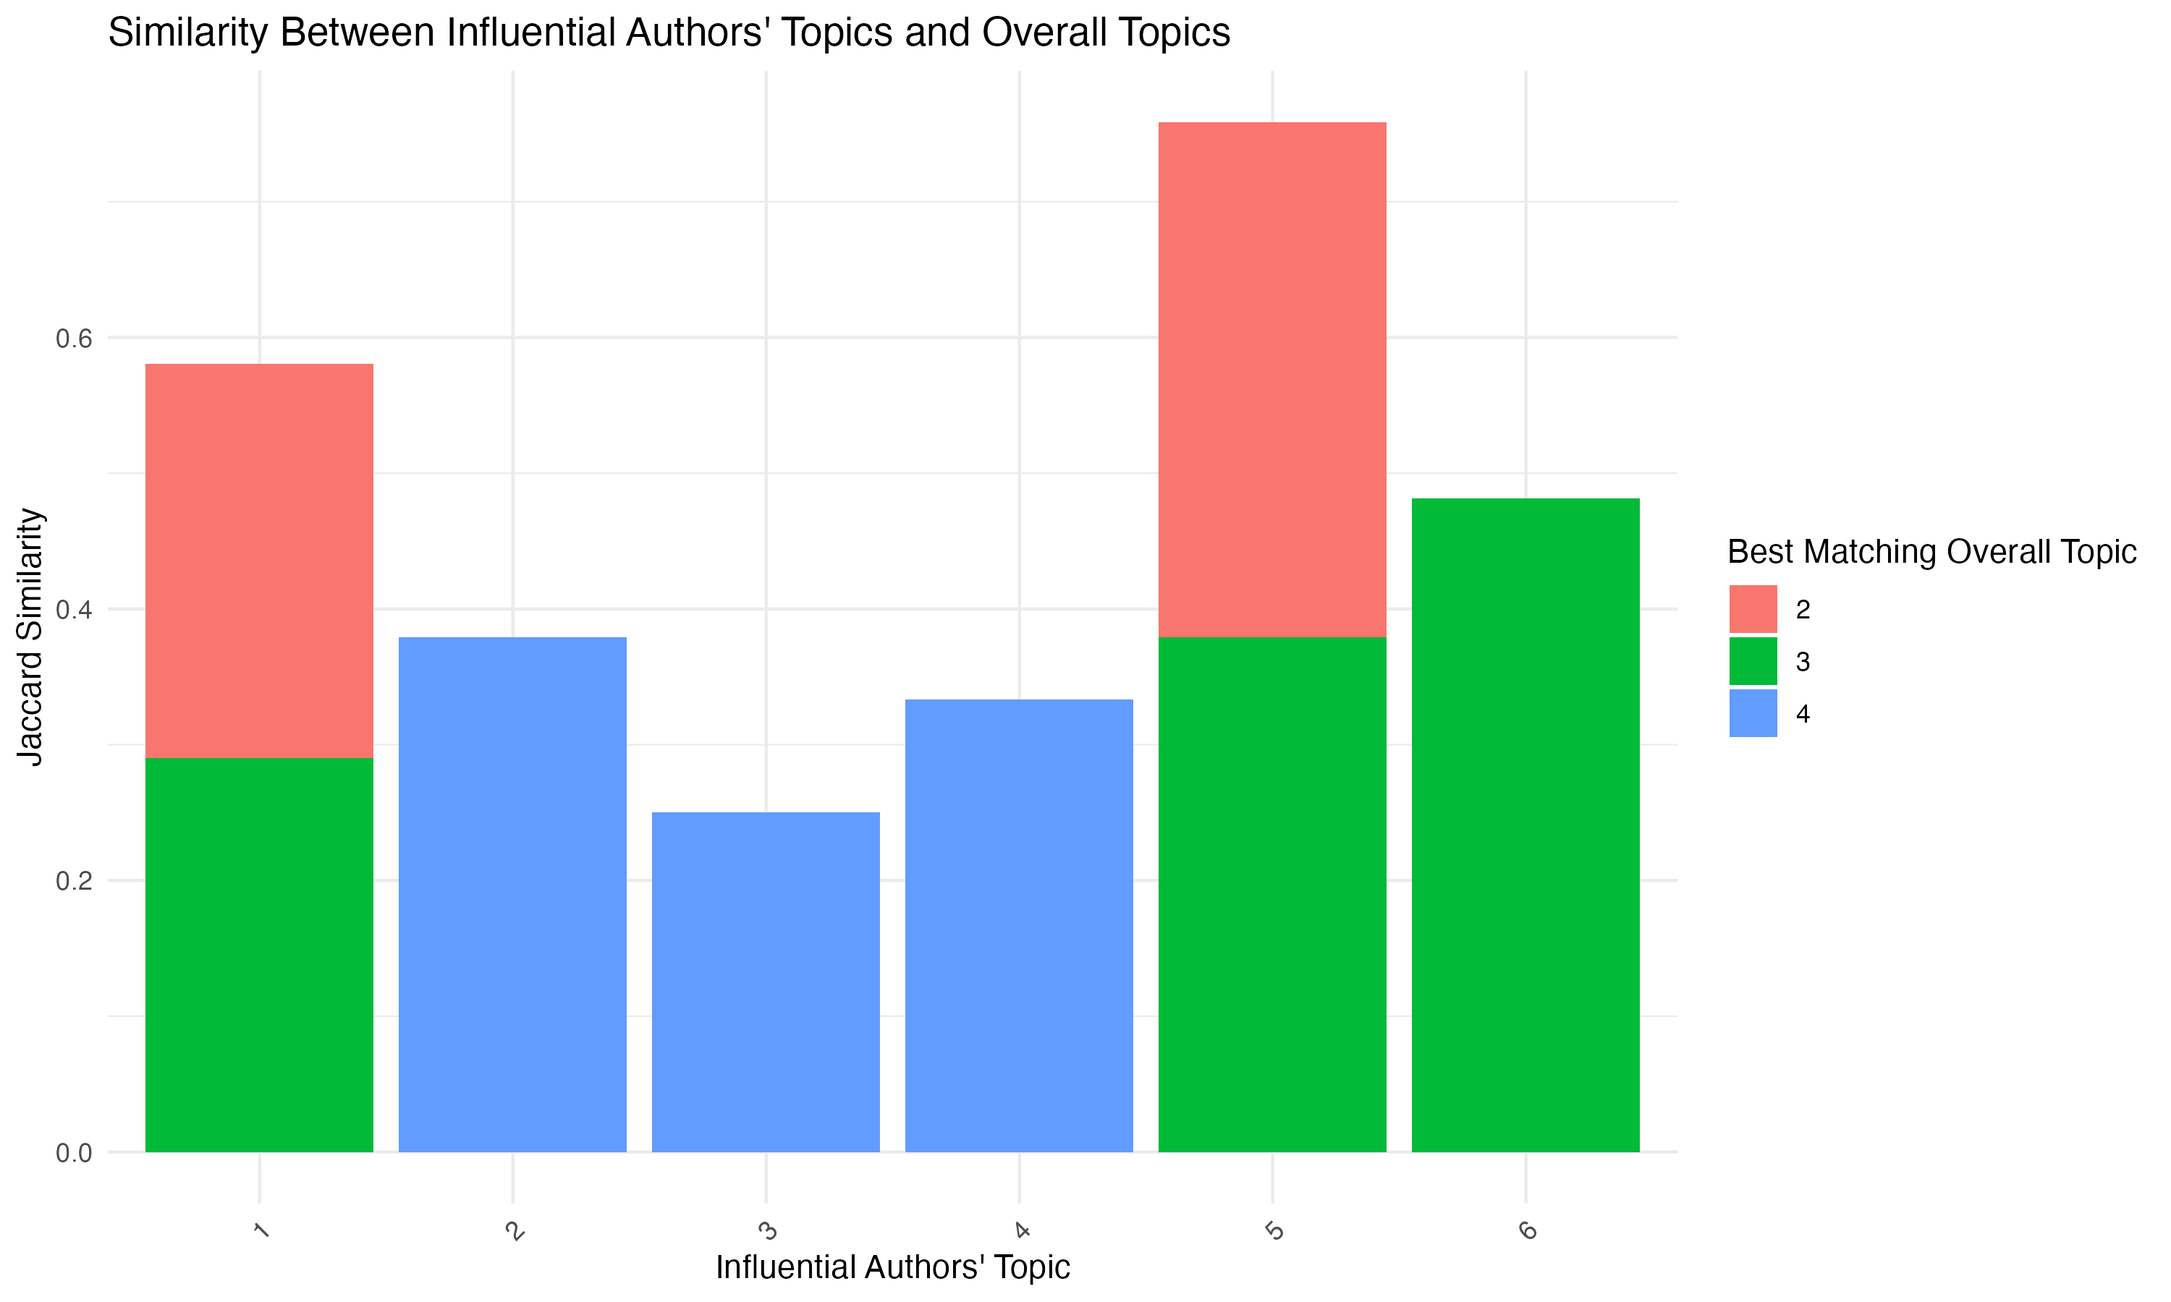
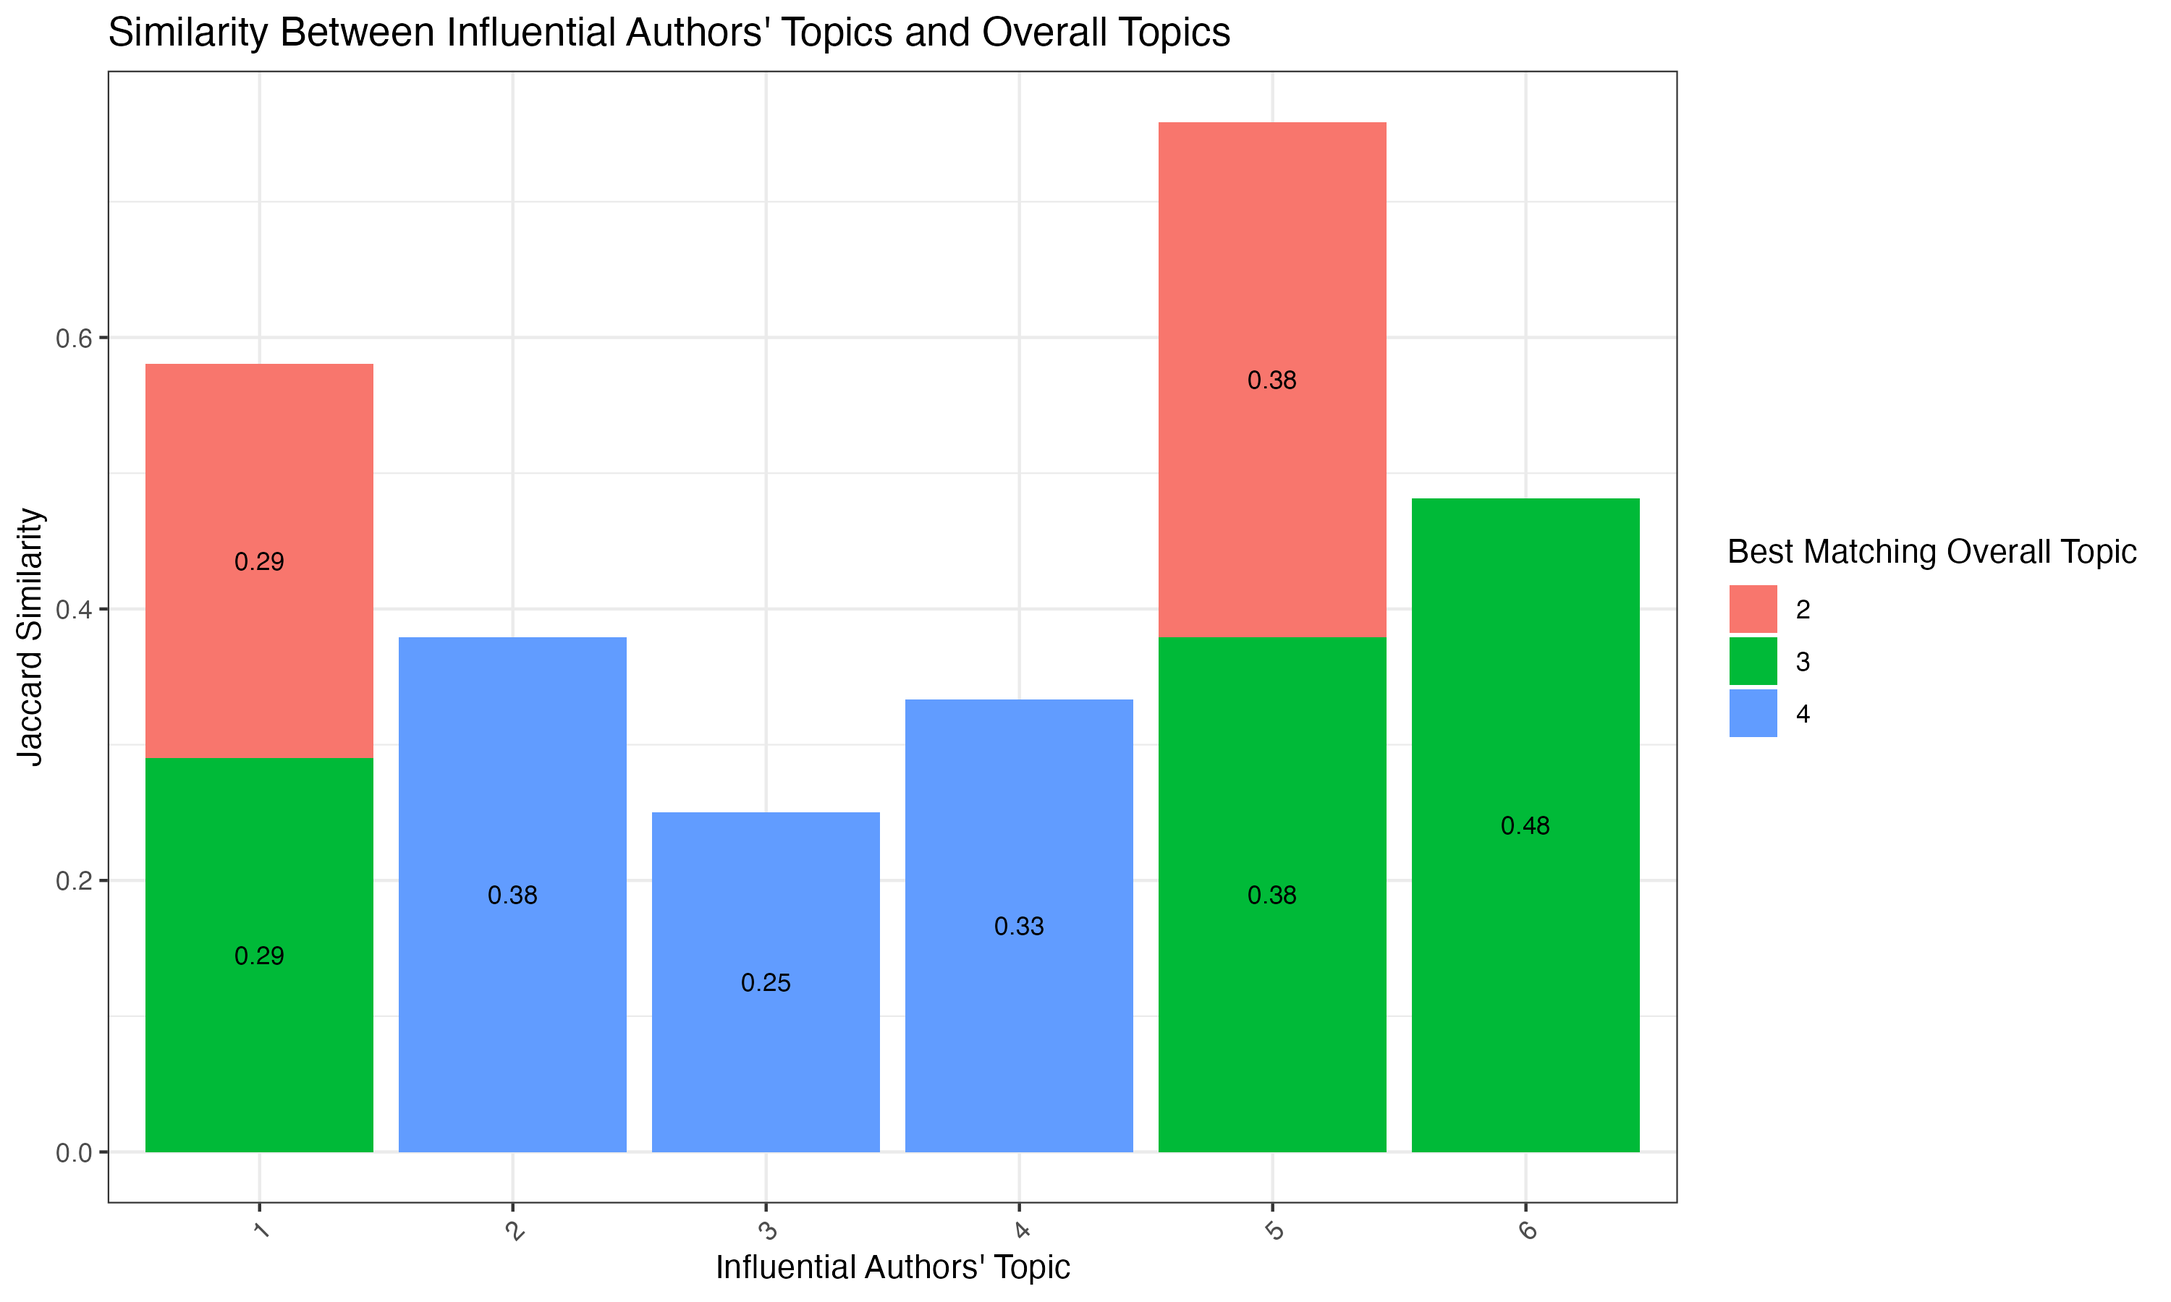
finished preliminary code

Changed region(s): [[0.682, 0.6222, 0.713, 0.6533], [0.341, 0.7467, 0.372, 0.7778]]

diff --git a/images and tables/table_descriptive_statistics_influential_authors.html b/images and tables/table_descriptive_statistics_influential_authors.html
@@ -2,66 +2,155 @@
 <tr>
 <th style="border-top: double; text-align:center; font-style:italic; font-weight:normal; padding:0.2cm; border-bottom:1px solid black; text-align:left; ">Author</th>
 <th style="border-top: double; text-align:center; font-style:italic; font-weight:normal; padding:0.2cm; border-bottom:1px solid black; ">Influence</th>
+<th style="border-top: double; text-align:center; font-style:italic; font-weight:normal; padding:0.2cm; border-bottom:1px solid black; ">Num_Comments</th>
+<th style="border-top: double; text-align:center; font-style:italic; font-weight:normal; padding:0.2cm; border-bottom:1px solid black; ">Num_Threads</th>
+<th style="border-top: double; text-align:center; font-style:italic; font-weight:normal; padding:0.2cm; border-bottom:1px solid black; ">Threads_Started</th>
+<th style="border-top: double; text-align:center; font-style:italic; font-weight:normal; padding:0.2cm; border-bottom:1px solid black; ">Avg_Sentiment</th>
+<th style="border-top: double; text-align:center; font-style:italic; font-weight:normal; padding:0.2cm; border-bottom:1px solid black; col7">Avg_Relevancy</th>
 </tr>
 <tr>
 <td style=" padding:0.2cm; text-align:left; vertical-align:top; text-align:left; ">Ron Rizzo</td>
 <td style=" padding:0.2cm; text-align:left; vertical-align:top; text-align:center; ">94</td>
+<td style=" padding:0.2cm; text-align:left; vertical-align:top; text-align:center; ">43</td>
+<td style=" padding:0.2cm; text-align:left; vertical-align:top; text-align:center; ">30</td>
+<td style=" padding:0.2cm; text-align:left; vertical-align:top; text-align:center; ">1</td>
+<td style=" padding:0.2cm; text-align:left; vertical-align:top; text-align:center; ">-7.95</td>
+<td style=" padding:0.2cm; text-align:left; vertical-align:top; text-align:center; col7">2.56</td>
 </tr>
 <tr>
 <td style=" padding:0.2cm; text-align:left; vertical-align:top; text-align:left; ">Steve Dyer</td>
 <td style=" padding:0.2cm; text-align:left; vertical-align:top; text-align:center; ">60</td>
+<td style=" padding:0.2cm; text-align:left; vertical-align:top; text-align:center; ">30</td>
+<td style=" padding:0.2cm; text-align:left; vertical-align:top; text-align:center; ">28</td>
+<td style=" padding:0.2cm; text-align:left; vertical-align:top; text-align:center; ">1</td>
+<td style=" padding:0.2cm; text-align:left; vertical-align:top; text-align:center; ">-0.33</td>
+<td style=" padding:0.2cm; text-align:left; vertical-align:top; text-align:center; col7">2.30</td>
 </tr>
 <tr>
 <td style=" padding:0.2cm; text-align:left; vertical-align:top; text-align:left; ">Craig Werner</td>
 <td style=" padding:0.2cm; text-align:left; vertical-align:top; text-align:center; ">48</td>
+<td style=" padding:0.2cm; text-align:left; vertical-align:top; text-align:center; ">20</td>
+<td style=" padding:0.2cm; text-align:left; vertical-align:top; text-align:center; ">20</td>
+<td style=" padding:0.2cm; text-align:left; vertical-align:top; text-align:center; ">1</td>
+<td style=" padding:0.2cm; text-align:left; vertical-align:top; text-align:center; ">-2.70</td>
+<td style=" padding:0.2cm; text-align:left; vertical-align:top; text-align:center; col7">3.15</td>
 </tr>
 <tr>
 <td style=" padding:0.2cm; text-align:left; vertical-align:top; text-align:left; ">Rob Bernardo</td>
 <td style=" padding:0.2cm; text-align:left; vertical-align:top; text-align:center; ">28</td>
+<td style=" padding:0.2cm; text-align:left; vertical-align:top; text-align:center; ">20</td>
+<td style=" padding:0.2cm; text-align:left; vertical-align:top; text-align:center; ">14</td>
+<td style=" padding:0.2cm; text-align:left; vertical-align:top; text-align:center; ">1</td>
+<td style=" padding:0.2cm; text-align:left; vertical-align:top; text-align:center; ">-5.00</td>
+<td style=" padding:0.2cm; text-align:left; vertical-align:top; text-align:center; col7">1.70</td>
 </tr>
 <tr>
 <td style=" padding:0.2cm; text-align:left; vertical-align:top; text-align:left; ">John Gurian</td>
 <td style=" padding:0.2cm; text-align:left; vertical-align:top; text-align:center; ">23</td>
+<td style=" padding:0.2cm; text-align:left; vertical-align:top; text-align:center; ">4</td>
+<td style=" padding:0.2cm; text-align:left; vertical-align:top; text-align:center; ">2</td>
+<td style=" padding:0.2cm; text-align:left; vertical-align:top; text-align:center; ">0</td>
+<td style=" padding:0.2cm; text-align:left; vertical-align:top; text-align:center; ">4.00</td>
+<td style=" padding:0.2cm; text-align:left; vertical-align:top; text-align:center; col7">1.50</td>
 </tr>
 <tr>
 <td style=" padding:0.2cm; text-align:left; vertical-align:top; text-align:left; ">Bill Stoll</td>
 <td style=" padding:0.2cm; text-align:left; vertical-align:top; text-align:center; ">22</td>
+<td style=" padding:0.2cm; text-align:left; vertical-align:top; text-align:center; ">5</td>
+<td style=" padding:0.2cm; text-align:left; vertical-align:top; text-align:center; ">4</td>
+<td style=" padding:0.2cm; text-align:left; vertical-align:top; text-align:center; ">0</td>
+<td style=" padding:0.2cm; text-align:left; vertical-align:top; text-align:center; ">-14.00</td>
+<td style=" padding:0.2cm; text-align:left; vertical-align:top; text-align:center; col7">1.80</td>
 </tr>
 <tr>
 <td style=" padding:0.2cm; text-align:left; vertical-align:top; text-align:left; ">Brian Mavrogeorge</td>
 <td style=" padding:0.2cm; text-align:left; vertical-align:top; text-align:center; ">22</td>
+<td style=" padding:0.2cm; text-align:left; vertical-align:top; text-align:center; ">4</td>
+<td style=" padding:0.2cm; text-align:left; vertical-align:top; text-align:center; ">2</td>
+<td style=" padding:0.2cm; text-align:left; vertical-align:top; text-align:center; ">0</td>
+<td style=" padding:0.2cm; text-align:left; vertical-align:top; text-align:center; ">-4.50</td>
+<td style=" padding:0.2cm; text-align:left; vertical-align:top; text-align:center; col7">3.50</td>
 </tr>
 <tr>
 <td style=" padding:0.2cm; text-align:left; vertical-align:top; text-align:left; ">Alan J Rosenthal</td>
 <td style=" padding:0.2cm; text-align:left; vertical-align:top; text-align:center; ">20</td>
+<td style=" padding:0.2cm; text-align:left; vertical-align:top; text-align:center; ">3</td>
+<td style=" padding:0.2cm; text-align:left; vertical-align:top; text-align:center; ">3</td>
+<td style=" padding:0.2cm; text-align:left; vertical-align:top; text-align:center; ">0</td>
+<td style=" padding:0.2cm; text-align:left; vertical-align:top; text-align:center; ">-5.67</td>
+<td style=" padding:0.2cm; text-align:left; vertical-align:top; text-align:center; col7">1.33</td>
 </tr>
 <tr>
 <td style=" padding:0.2cm; text-align:left; vertical-align:top; text-align:left; ">Rod Williams</td>
 <td style=" padding:0.2cm; text-align:left; vertical-align:top; text-align:center; ">20</td>
+<td style=" padding:0.2cm; text-align:left; vertical-align:top; text-align:center; ">3</td>
+<td style=" padding:0.2cm; text-align:left; vertical-align:top; text-align:center; ">3</td>
+<td style=" padding:0.2cm; text-align:left; vertical-align:top; text-align:center; ">0</td>
+<td style=" padding:0.2cm; text-align:left; vertical-align:top; text-align:center; ">1.67</td>
+<td style=" padding:0.2cm; text-align:left; vertical-align:top; text-align:center; col7">2.00</td>
 </tr>
 <tr>
 <td style=" padding:0.2cm; text-align:left; vertical-align:top; text-align:left; ">Roy Smith</td>
 <td style=" padding:0.2cm; text-align:left; vertical-align:top; text-align:center; ">20</td>
+<td style=" padding:0.2cm; text-align:left; vertical-align:top; text-align:center; ">2</td>
+<td style=" padding:0.2cm; text-align:left; vertical-align:top; text-align:center; ">2</td>
+<td style=" padding:0.2cm; text-align:left; vertical-align:top; text-align:center; ">0</td>
+<td style=" padding:0.2cm; text-align:left; vertical-align:top; text-align:center; ">4.00</td>
+<td style=" padding:0.2cm; text-align:left; vertical-align:top; text-align:center; col7">1.00</td>
 </tr>
 <tr>
 <td style=" padding:0.2cm; text-align:left; vertical-align:top; text-align:left; ">stephanie da silva</td>
 <td style=" padding:0.2cm; text-align:left; vertical-align:top; text-align:center; ">20</td>
+<td style=" padding:0.2cm; text-align:left; vertical-align:top; text-align:center; ">2</td>
+<td style=" padding:0.2cm; text-align:left; vertical-align:top; text-align:center; ">2</td>
+<td style=" padding:0.2cm; text-align:left; vertical-align:top; text-align:center; ">0</td>
+<td style=" padding:0.2cm; text-align:left; vertical-align:top; text-align:center; ">0.00</td>
+<td style=" padding:0.2cm; text-align:left; vertical-align:top; text-align:center; col7">1.00</td>
 </tr>
 <tr>
 <td style=" padding:0.2cm; text-align:left; vertical-align:top; text-align:left; ">Mike Leibensperger</td>
 <td style=" padding:0.2cm; text-align:left; vertical-align:top; text-align:center; ">19</td>
+<td style=" padding:0.2cm; text-align:left; vertical-align:top; text-align:center; ">2</td>
+<td style=" padding:0.2cm; text-align:left; vertical-align:top; text-align:center; ">2</td>
+<td style=" padding:0.2cm; text-align:left; vertical-align:top; text-align:center; ">0</td>
+<td style=" padding:0.2cm; text-align:left; vertical-align:top; text-align:center; ">9.00</td>
+<td style=" padding:0.2cm; text-align:left; vertical-align:top; text-align:center; col7">1.00</td>
 </tr>
 <tr>
 <td style=" padding:0.2cm; text-align:left; vertical-align:top; text-align:left; ">Andrew Klossner</td>
 <td style=" padding:0.2cm; text-align:left; vertical-align:top; text-align:center; ">18</td>
+<td style=" padding:0.2cm; text-align:left; vertical-align:top; text-align:center; ">2</td>
+<td style=" padding:0.2cm; text-align:left; vertical-align:top; text-align:center; ">2</td>
+<td style=" padding:0.2cm; text-align:left; vertical-align:top; text-align:center; ">0</td>
+<td style=" padding:0.2cm; text-align:left; vertical-align:top; text-align:center; ">-7.00</td>
+<td style=" padding:0.2cm; text-align:left; vertical-align:top; text-align:center; col7">3.00</td>
 </tr>
 <tr>
 <td style=" padding:0.2cm; text-align:left; vertical-align:top; text-align:left; ">David Sher</td>
 <td style=" padding:0.2cm; text-align:left; vertical-align:top; text-align:center; ">18</td>
+<td style=" padding:0.2cm; text-align:left; vertical-align:top; text-align:center; ">2</td>
+<td style=" padding:0.2cm; text-align:left; vertical-align:top; text-align:center; ">2</td>
+<td style=" padding:0.2cm; text-align:left; vertical-align:top; text-align:center; ">1</td>
+<td style=" padding:0.2cm; text-align:left; vertical-align:top; text-align:center; ">-9.00</td>
+<td style=" padding:0.2cm; text-align:left; vertical-align:top; text-align:center; col7">1.00</td>
 </tr>
 <tr>
-<td style=" padding:0.2cm; text-align:left; vertical-align:top; text-align:left; border-bottom: double; ">Harold Ancell</td>
-<td style=" padding:0.2cm; text-align:left; vertical-align:top; text-align:center; border-bottom: double; ">18</td>
+<td style=" padding:0.2cm; text-align:left; vertical-align:top; text-align:left; ">Harold Ancell</td>
+<td style=" padding:0.2cm; text-align:left; vertical-align:top; text-align:center; ">18</td>
+<td style=" padding:0.2cm; text-align:left; vertical-align:top; text-align:center; ">2</td>
+<td style=" padding:0.2cm; text-align:left; vertical-align:top; text-align:center; ">2</td>
+<td style=" padding:0.2cm; text-align:left; vertical-align:top; text-align:center; ">0</td>
+<td style=" padding:0.2cm; text-align:left; vertical-align:top; text-align:center; ">-6.00</td>
+<td style=" padding:0.2cm; text-align:left; vertical-align:top; text-align:center; col7">3.00</td>
+</tr>
+<tr>
+<td style=" padding:0.2cm; text-align:left; vertical-align:top; text-align:left; border-bottom: double; ">Total</td>
+<td style=" padding:0.2cm; text-align:left; vertical-align:top; text-align:center; border-bottom: double; ">450</td>
+<td style=" padding:0.2cm; text-align:left; vertical-align:top; text-align:center; border-bottom: double; ">144</td>
+<td style=" padding:0.2cm; text-align:left; vertical-align:top; text-align:center; border-bottom: double; ">118</td>
+<td style=" padding:0.2cm; text-align:left; vertical-align:top; text-align:center; border-bottom: double; ">5</td>
+<td style=" padding:0.2cm; text-align:left; vertical-align:top; text-align:center; border-bottom: double; ">-2.90</td>
+<td style=" padding:0.2cm; text-align:left; vertical-align:top; text-align:center; border-bottom: double; col7">1.99</td>
 </tr>
 </table>
 

diff --git a/images and tables/table_topic_matches_transposed.html b/images and tables/table_topic_matches_transposed.html
@@ -1,0 +1,43 @@
+<table style="border-collapse:collapse; border:none;">
+<tr>
+<th style="border-top: double; text-align:center; font-style:italic; font-weight:normal; padding:0.2cm; border-bottom:1px solid black; text-align:left; ">V1</th>
+<th style="border-top: double; text-align:center; font-style:italic; font-weight:normal; padding:0.2cm; border-bottom:1px solid black; ">V2</th>
+<th style="border-top: double; text-align:center; font-style:italic; font-weight:normal; padding:0.2cm; border-bottom:1px solid black; ">V3</th>
+<th style="border-top: double; text-align:center; font-style:italic; font-weight:normal; padding:0.2cm; border-bottom:1px solid black; ">V4</th>
+<th style="border-top: double; text-align:center; font-style:italic; font-weight:normal; padding:0.2cm; border-bottom:1px solid black; ">V5</th>
+<th style="border-top: double; text-align:center; font-style:italic; font-weight:normal; padding:0.2cm; border-bottom:1px solid black; ">V6</th>
+<th style="border-top: double; text-align:center; font-style:italic; font-weight:normal; padding:0.2cm; border-bottom:1px solid black; col7">V7</th>
+<th style="border-top: double; text-align:center; font-style:italic; font-weight:normal; padding:0.2cm; border-bottom:1px solid black; col8">V8</th>
+</tr>
+<tr>
+<td style=" padding:0.2cm; text-align:left; vertical-align:top; text-align:left; ">1.00</td>
+<td style=" padding:0.2cm; text-align:left; vertical-align:top; text-align:center; ">1.00</td>
+<td style=" padding:0.2cm; text-align:left; vertical-align:top; text-align:center; ">2.00</td>
+<td style=" padding:0.2cm; text-align:left; vertical-align:top; text-align:center; ">3.00</td>
+<td style=" padding:0.2cm; text-align:left; vertical-align:top; text-align:center; ">4.00</td>
+<td style=" padding:0.2cm; text-align:left; vertical-align:top; text-align:center; ">5.00</td>
+<td style=" padding:0.2cm; text-align:left; vertical-align:top; text-align:center; col7">5.00</td>
+<td style=" padding:0.2cm; text-align:left; vertical-align:top; text-align:center; col8">6.00</td>
+</tr>
+<tr>
+<td style=" padding:0.2cm; text-align:left; vertical-align:top; text-align:left; ">2.00</td>
+<td style=" padding:0.2cm; text-align:left; vertical-align:top; text-align:center; ">3.00</td>
+<td style=" padding:0.2cm; text-align:left; vertical-align:top; text-align:center; ">4.00</td>
+<td style=" padding:0.2cm; text-align:left; vertical-align:top; text-align:center; ">4.00</td>
+<td style=" padding:0.2cm; text-align:left; vertical-align:top; text-align:center; ">4.00</td>
+<td style=" padding:0.2cm; text-align:left; vertical-align:top; text-align:center; ">2.00</td>
+<td style=" padding:0.2cm; text-align:left; vertical-align:top; text-align:center; col7">3.00</td>
+<td style=" padding:0.2cm; text-align:left; vertical-align:top; text-align:center; col8">3.00</td>
+</tr>
+<tr>
+<td style=" padding:0.2cm; text-align:left; vertical-align:top; text-align:left; border-bottom: double; ">0.29</td>
+<td style=" padding:0.2cm; text-align:left; vertical-align:top; text-align:center; border-bottom: double; ">0.29</td>
+<td style=" padding:0.2cm; text-align:left; vertical-align:top; text-align:center; border-bottom: double; ">0.38</td>
+<td style=" padding:0.2cm; text-align:left; vertical-align:top; text-align:center; border-bottom: double; ">0.25</td>
+<td style=" padding:0.2cm; text-align:left; vertical-align:top; text-align:center; border-bottom: double; ">0.33</td>
+<td style=" padding:0.2cm; text-align:left; vertical-align:top; text-align:center; border-bottom: double; ">0.38</td>
+<td style=" padding:0.2cm; text-align:left; vertical-align:top; text-align:center; border-bottom: double; col7">0.38</td>
+<td style=" padding:0.2cm; text-align:left; vertical-align:top; text-align:center; border-bottom: double; col8">0.48</td>
+</tr>
+</table>
+

diff --git a/images and tables/table_descriptive_statistics_sentiment_scores_combined.html b/images and tables/table_descriptive_statistics_sentiment_scores_combined.html
@@ -34,7 +34,7 @@
 <td style=" padding:0.2cm; text-align:left; vertical-align:top; text-align:center; col9">12.53</td>
 </tr>
 <tr>
-<td style=" padding:0.2cm; text-align:left; vertical-align:top; text-align:left; border-bottom: double; ">Influential Authors</td>
+<td style=" padding:0.2cm; text-align:left; vertical-align:top; text-align:left; border-bottom: double; ">Dataset Four</td>
 <td style=" padding:0.2cm; text-align:left; vertical-align:top; text-align:center; border-bottom: double; ">-57</td>
 <td style=" padding:0.2cm; text-align:left; vertical-align:top; text-align:center; border-bottom: double; ">19</td>
 <td style=" padding:0.2cm; text-align:left; vertical-align:top; text-align:center; border-bottom: double; ">76</td>
